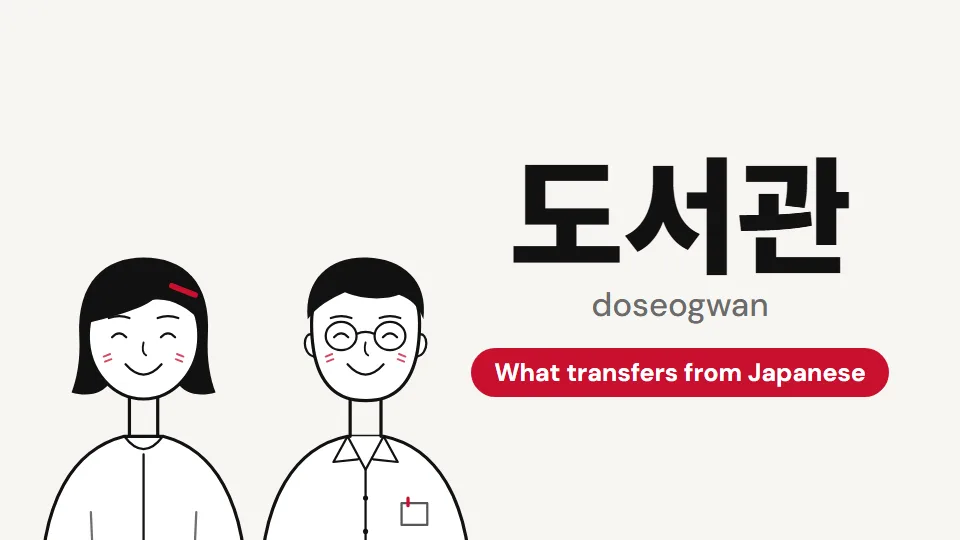
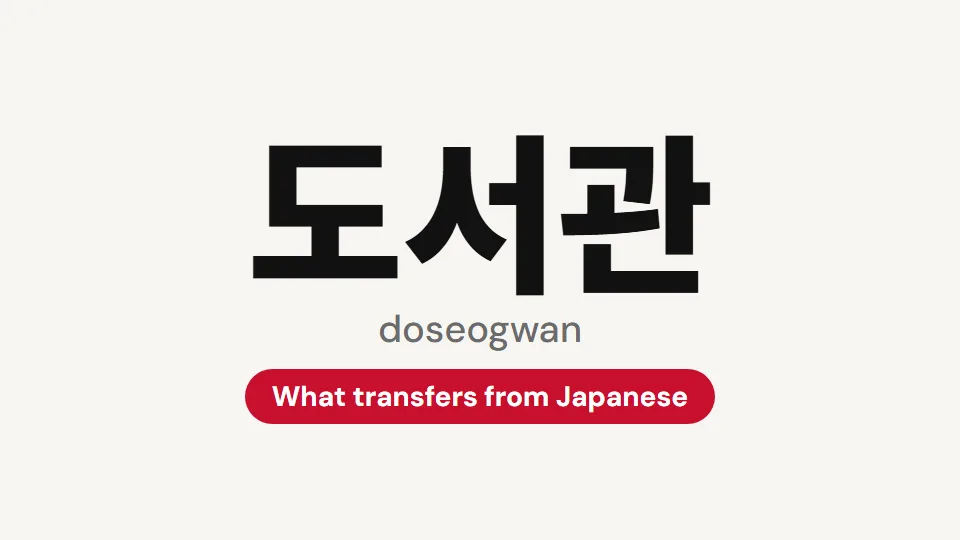
Korean Basics thumbnails: characters only where the video has them
- Posts whose short opens with the two-character scene (22) keep the character card.
- The other 18 get a centered type card on the same cream background, with larger Korean
  and romanization (spaces count as half a character so spaced jamo stay large).

diff --git a/remotion/KoreanBasic/BasicsThumb.tsx b/remotion/KoreanBasic/BasicsThumb.tsx
@@ -43,9 +43,10 @@ export function BasicsThumb({ data, variant }: { data: BasicsVideoData; variant:
 }
 
 /**
- * v2 목록 썸네일 — 한 가지 모양으로 통일(2026-11-18): 크림 배경(영상과 같은 #F7F5F2) + 왼쪽 두 캐릭터 펜화(먹선)
- * + 오른쪽 한국어 표현(먹색, 두 번째 표현만 레드) + 로마자 + 레드 배지(영문 뜻). 문구는 videos.json 의 thumb({ lines, en }).
- * 상황극이 없는 글도 같은 캐릭터를 둔다 — 목록이 한 톤으로 보이게.
+ * v2 목록 썸네일 — 크림 배경(영상과 같은 #F7F5F2) · 먹색 한국어(두 번째 표현만 레드) · 로마자 · 레드 배지(영문 뜻).
+ * 문구는 videos.json 의 thumb({ lines, en }). 구도는 영상과 맞춘다(2026-11-19):
+ *   scene 있는 글  영상에 두 캐릭터가 나오므로 왼쪽에 캐릭터 펜화, 오른쪽에 표현
+ *   scene 없는 글  캐릭터 없이 정중앙 정렬 타이포 카드 — 표현을 더 크게(에디토리얼)
  */
 const EN_FONT = "'DM Sans', sans-serif"
 
@@ -54,7 +55,28 @@ function ThumbV2({ data }: { data: BasicsVideoData }) {
   const t = data.thumb ?? { lines: [{ ko: data.contrast.cards[0].ko, rom: data.contrast.cards[0].rom }], en: data.hook.cue.word }
   const two = t.lines.length > 1
   const longest = Math.max(...t.lines.map(l => [...l.ko].length))
-  const size = Math.min(two ? 190 : 250, Math.floor(1000 / longest))
+  const withCast = !!data.scene
+  // 가운데 카드는 빈칸을 반 글자로 센다 — 'ㄱ · ㅋ · ㄲ' 처럼 띄어 쓴 낱자가 작아지지 않게
+  const width = Math.max(...t.lines.map(l => [...l.ko].reduce((n, ch) => n + (ch === ' ' ? 0.5 : 1), 0)))
+  const size = withCast ? Math.min(two ? 190 : 250, Math.floor(1000 / longest)) : Math.min(two ? 228 : 340, Math.floor(1560 / width))
+  const romSize = withCast ? (two ? 56 : 66) : two ? 62 : 76
+  const lines = t.lines.map((l, i) => (
+    <div key={i} style={{ textAlign: 'center' }}>
+      <div style={{ fontSize: size, fontWeight: 800, lineHeight: 1.05, letterSpacing: -2, whiteSpace: 'nowrap', color: i === 1 ? C2.red : C2.ink }}>{l.ko}</div>
+      <div style={{ marginTop: withCast ? 16 : 20, fontFamily: EN_FONT, fontSize: romSize, fontWeight: 500, color: C2.muted, whiteSpace: 'nowrap' }}>{l.rom}</div>
+    </div>
+  ))
+  const badge = (
+    <div style={{ marginTop: withCast ? 14 : 30, padding: withCast ? '16px 46px' : '18px 54px', borderRadius: 999, background: C2.red, color: '#fff', fontFamily: EN_FONT, fontSize: withCast ? 50 : 56, fontWeight: 700, whiteSpace: 'nowrap' }}>{t.en}</div>
+  )
+  if (!withCast) {
+    return (
+      <AbsoluteFill style={{ background: C2.bg, fontFamily: FONT, alignItems: 'center', justifyContent: 'center', gap: two ? 26 : 0 }}>
+        {lines}
+        {badge}
+      </AbsoluteFill>
+    )
+  }
   return (
     <AbsoluteFill style={{ background: C2.bg, fontFamily: FONT }}>
       <div style={{ position: 'absolute', left: 30, bottom: -60, display: 'flex', alignItems: 'flex-end' }}>
@@ -64,13 +86,8 @@ function ThumbV2({ data }: { data: BasicsVideoData }) {
         </div>
       </div>
       <div style={{ position: 'absolute', left: 860, right: 60, top: 0, bottom: 0, display: 'flex', flexDirection: 'column', alignItems: 'center', justifyContent: 'center', gap: 30 }}>
-        {t.lines.map((l, i) => (
-          <div key={i} style={{ textAlign: 'center' }}>
-            <div style={{ fontSize: size, fontWeight: 800, lineHeight: 1.05, letterSpacing: -2, whiteSpace: 'nowrap', color: i === 1 ? C2.red : C2.ink }}>{l.ko}</div>
-            <div style={{ marginTop: 16, fontFamily: EN_FONT, fontSize: two ? 56 : 66, fontWeight: 500, color: C2.muted, whiteSpace: 'nowrap' }}>{l.rom}</div>
-          </div>
-        ))}
-        <div style={{ marginTop: 14, padding: '16px 46px', borderRadius: 999, background: C2.red, color: '#fff', fontFamily: EN_FONT, fontSize: 50, fontWeight: 700, whiteSpace: 'nowrap' }}>{t.en}</div>
+        {lines}
+        {badge}
       </div>
     </AbsoluteFill>
   )
